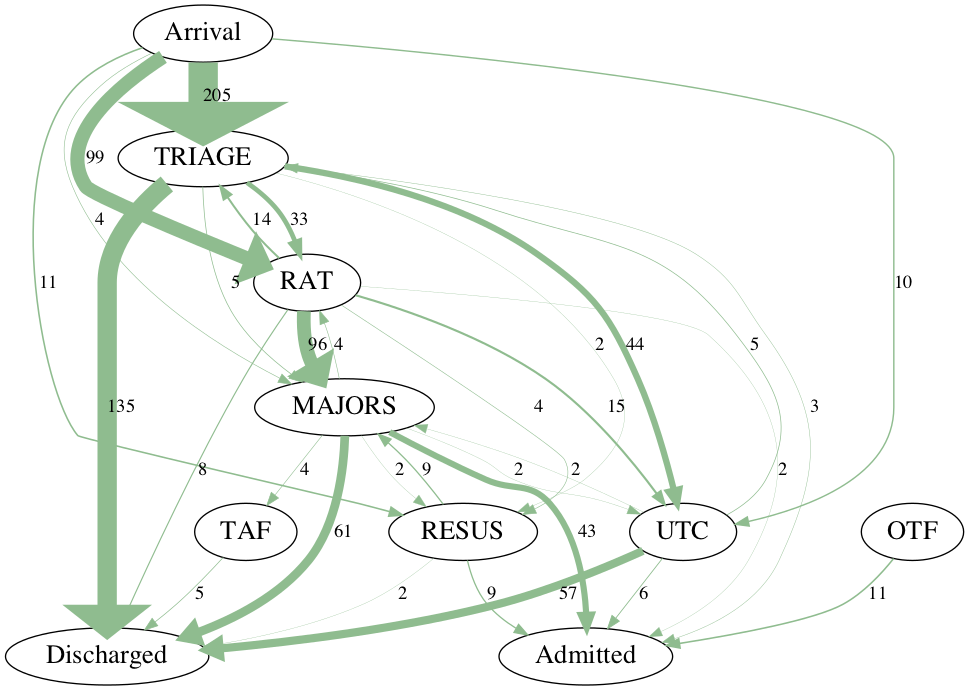
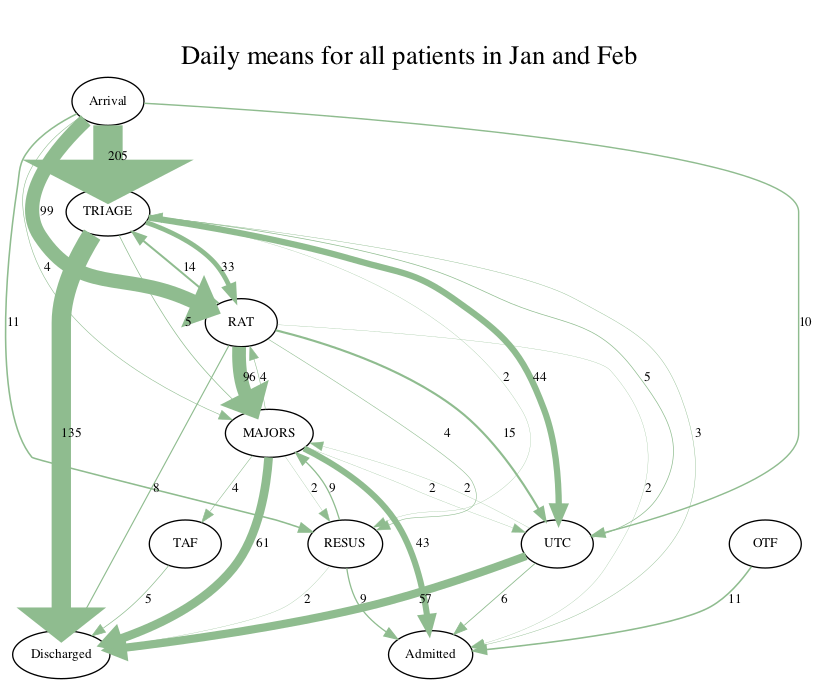
Chart title

diff --git a/flow-mapping/code/create-viz-from-edge-list.py b/flow-mapping/code/create-viz-from-edge-list.py
@@ -6,35 +6,40 @@ import pygraphviz as pgv
 # read data
 
 filename = '/Users/zellaking/GitHubRepos/EDcrowding/flow-mapping/data-output/edgelist_stats_JanFeb_2020-07-21.csv'
-df = pd.read_csv(filename, sep = ',', dtype = {"weight_mean" : "float64"})
+edgelist_stats = pd.read_csv(filename, sep =',', dtype = {"weight_mean" : "float64"})
+
+filename = 'flow-mapping/data-output/node_duration_adj_summ_JanFeb_2020-07-22.csv'
+node_stats = pd.read_csv(filename, sep =',')
 
 # cheat workaround to get mean to round
-df.weight_mean = df.weight_mean.astype(int)
+edgelist_stats.weight_mean = edgelist_stats.weight_mean.astype(int)
 
 # initialise graph for example 1
-G = pgv.AGraph(name='Jan-Feb-breachless', directed=True)
+G = pgv.AGraph(name='Jan-Feb-all', directed=True,
+               labelloc = 't', label='\nDaily means for all patients in Jan and Feb', fontsize = '20')
 G.node_attr['shape'] = 'ellipse'
 G.node_attr['fixedsize'] = 'false'
-G.node_attr['fontsize'] = '20'
+G.node_attr['fontsize'] = '10'
 
-for index, row in df.iterrows():
+for index, row in edgelist_stats.iterrows():
     if row['from'] != 'Admitted' and row['weight_mean'] > 1:
         G.add_edge(row['from'], row['to'],
                    weight=row['weight_mean'],
                    label=row['weight_mean'],
                    dir="forward",
+                   fontsize='10',
                    arrowhead="normal",
                    arrowsize=1,
                    style="solid",
                    color='darkseagreen',
      #              penwidth=np.log10(row['weight'],
-                   penwidth=100 * row['weight_mean'] / sum(df['weight_mean'])
+                   penwidth=100 * row['weight_mean'] / sum(edgelist_stats['weight_mean'])
                    )
 
 G.draw("flow-mapping/media/temp.png", prog='dot')
 
 filename = 'flow-mapping/data-output/edgelist_summ_grouped_JanFeb_2020-07-06.csv'
-df = pd.read_csv(filename, sep = ';')
+edgelist_stats = pd.read_csv(filename, sep =';')
 
 # initialise graph for example 2
 G2 = pgv.AGraph(name='Jan-Feb', directed=True)
@@ -42,7 +47,7 @@ G2.node_attr['shape'] = 'ellipse'
 G2.node_attr['fixedsize'] = 'false'
 G2.node_attr['fontsize'] = '20'
 
-for index, row in df.iterrows():
+for index, row in edgelist_stats.iterrows():
     if row['from'] != 'Admitted':
         G2.add_edge(row['from'], row['to'],
                     weight=row['weight'],
@@ -52,7 +57,7 @@ for index, row in df.iterrows():
                     arrowsize=1,
                     style="solid",
                     color='darkseagreen',
-                    penwidth=100 * row['weight'] / sum(df['weight']))
+                    penwidth=100 * row['weight'] / sum(edgelist_stats['weight']))
 
 G2.draw("flow-mapping/media/Jan-Feb.png", prog='dot')
 
